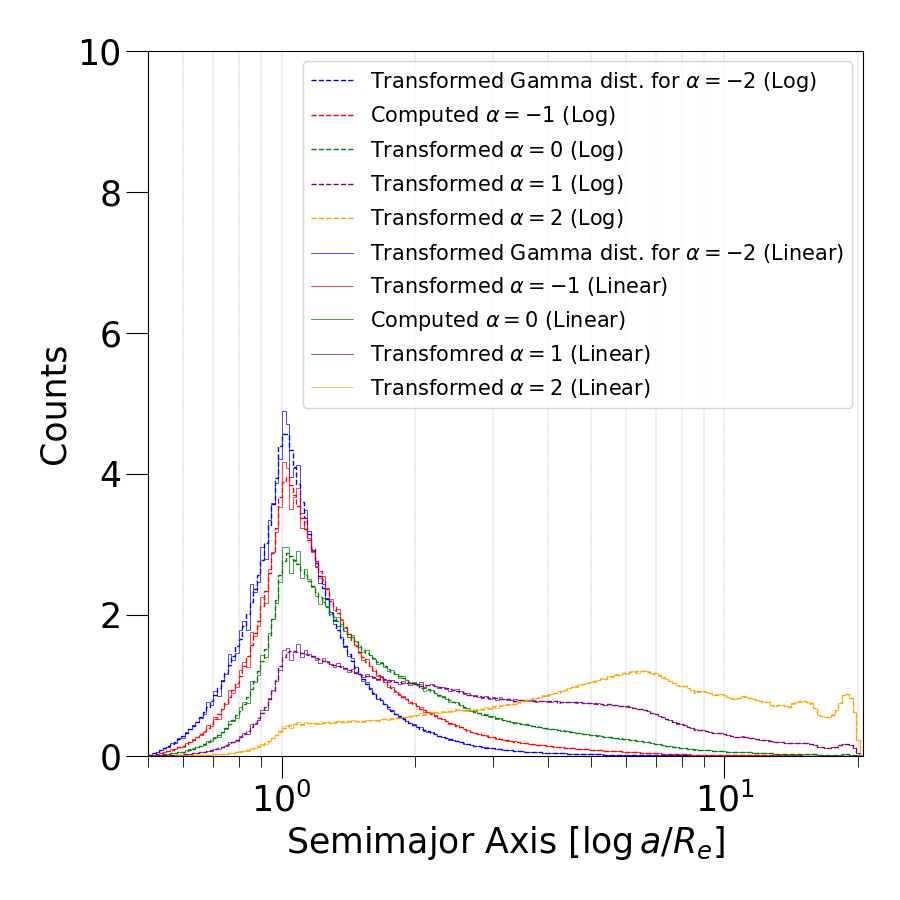
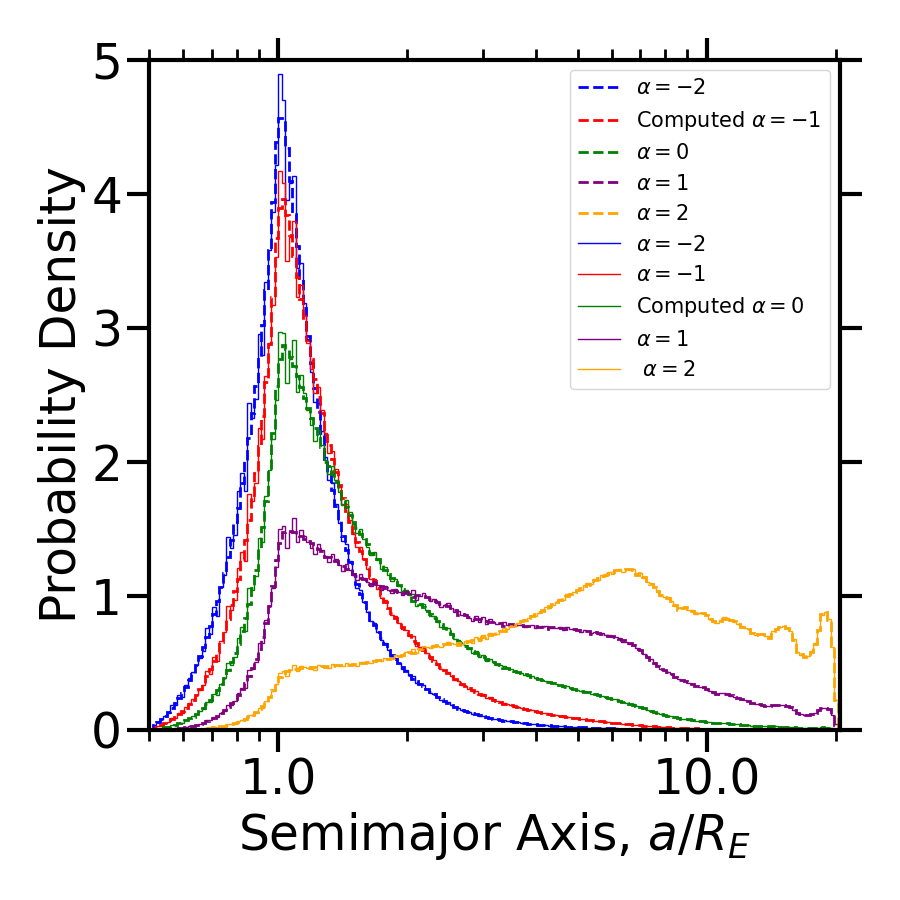
- Updated gamma test for appendix of paper
- Started working on predictive model for intersecting orbits, confused at where to start honestly

Changed region(s): [[0.0311, 0.0311, 0.9644, 0.9644], [0.7156, 0.6533, 0.7778, 0.6844], [0.6533, 0.6222, 0.7156, 0.6533]]

diff --git a/Sep_plot.py b/Sep_plot.py
@@ -1330,17 +1330,17 @@ class Sep_plot(Sep_gen):
                     gammanorm_test_plus_1 = np.abs(1 / (np.sum(gammahist_test_plus_1) * logbinsize))
                     gammanorm_test_plus_2 = np.abs(1 / (np.sum(gammahist_test_plus_2) * logbinsize))
                     
-                    StepPatch = ax.stairs(gammahist_test_minus_2 * gammanorm_test_minus_2, bins, linestyle = "--", ec = "blue", label = rf"Transformed Gamma for $\alpha = -2$ (Log)") 
-                    StepPatch = ax.stairs(gammahist_test_minus_1 * gammanorm_test_minus_1, bins, linestyle = "--", ec = "r", label = rf"Computed $\alpha = -1$ (Log)")
-                    StepPatch = ax.stairs(gammahist_test_0 * gammanorm_test_0, bins, linestyle = "--", ec = "g", label = rf"Transformed $\alpha = 0$ (Log)") 
-                    StepPatch = ax.stairs(gammahist_test_plus_1 * gammanorm_test_plus_1, bins, linestyle = "--", ec = "purple", label = rf"Transformed $\alpha = 1$ (Log)")
-                    StepPatch = ax.stairs(gammahist_test_plus_2 * gammanorm_test_plus_2, bins, linestyle = "--", ec = "orange", label = rf"Transformed $\alpha = 2$ (Log)")
+                    StepPatch = ax.stairs(gammahist_test_minus_2 * gammanorm_test_minus_2, bins, linestyle = "--", lw = 2, ec = "blue", label = rf"$\alpha = -2$") 
+                    StepPatch = ax.stairs(gammahist_test_minus_1 * gammanorm_test_minus_1, bins, linestyle = "--", lw = 2, ec = "r", label = rf"Computed $\alpha = -1$")
+                    StepPatch = ax.stairs(gammahist_test_0 * gammanorm_test_0, bins, linestyle = "--", lw = 2, ec = "g", label = rf"$\alpha = 0$") 
+                    StepPatch = ax.stairs(gammahist_test_plus_1 * gammanorm_test_plus_1, bins, linestyle = "--", lw = 2, ec = "purple", label = rf"$\alpha = 1$")
+                    StepPatch = ax.stairs(gammahist_test_plus_2 * gammanorm_test_plus_2, bins, linestyle = "--", lw = 2, ec = "orange", label = rf"$\alpha = 2$")
                 
-                StepPatch = ax.stairs(gammahist_1 * gammanorm_final_1, bins, ec = "blue", lw = 0.5, label = rf"Transformed Gamma for $\alpha = -2$ ({which})")
-                StepPatch = ax.stairs(gammahist_2 * gammanorm_final_2, bins, ec = "r", lw = 0.5, label = rf"Transformed $\alpha = -1$ ({which})")
-                StepPatch = ax.stairs(gammahist_3 * gammanorm_final_3, bins, ec = "g", lw = 0.5, label = rf"Computed $\alpha = 0$ ({which})")
-                StepPatch = ax.stairs(gammahist_4 * gammanorm_final_4, bins, ec = "purple", lw = 0.5, label = rf"Transfomred $\alpha = 1$ ({which})")
-                StepPatch = ax.stairs(gammahist_5 * gammanorm_final_5, bins, ec = "orange", lw = 0.5, label = rf"Transformed $\alpha = 2$ ({which})")           
+                StepPatch = ax.stairs(gammahist_1 * gammanorm_final_1, bins, ec = "blue", lw = 1, label = rf"$\alpha = -2$")
+                StepPatch = ax.stairs(gammahist_2 * gammanorm_final_2, bins, ec = "r", lw = 1, label = rf"$\alpha = -1$")
+                StepPatch = ax.stairs(gammahist_3 * gammanorm_final_3, bins, ec = "g", lw = 1, label = rf"Computed $\alpha = 0$")
+                StepPatch = ax.stairs(gammahist_4 * gammanorm_final_4, bins, ec = "purple", lw = 1, label = rf"$\alpha = 1$")
+                StepPatch = ax.stairs(gammahist_5 * gammanorm_final_5, bins, ec = "orange", lw = 1, label = rf" $\alpha = 2$")           
         else:
             if not circ:
                 if test:
@@ -1408,7 +1408,10 @@ class Sep_plot(Sep_gen):
 
         # ax.grid(True,color = "grey", linestyle="--", linewidth="0.5", axis = "x", which = "both")
         ax.set_xlim(0.5,20.5)
-        ax.set_ylim(0,10)
+        if test:
+            ax.set_ylim(0,5)
+        else:
+            ax.set_ylim(0,10)
         ax.set_xscale("log")
         ax.xaxis.set_major_formatter(matplotlib.ticker.ScalarFormatter())
         ax.set_xlabel(r"Semimajor Axis, $a/R_E$", fontsize = 35)    
@@ -1988,10 +1991,10 @@ if __name__ == "__main__":
     inum = wnum
     total_points = 5 # THIS DETERMINES THE TOTAL NUMBER OF POINTS IN RANDOM SAMPLING
     # FOR REAL LINEAR, alpha = 0, FOR REAL LOG, alpha = -1, FOR REAL POWER, alpha = 1
-    which = "Log"
-    alpha = 2 # For test = True, this becomes the comparison to which
+    which = "Linear"
+    alpha = -1 # For test = True, this becomes the comparison to which
     inclination = True # KEEP IN MIND THIS VALUE
-    random = True # Used to swap between discrete and random sampling for inc and omega marg
+    random = False # Used to swap between discrete and random sampling for inc and omega marg
     circ = False
     gamma_bool = False
     test = False
@@ -2013,7 +2016,7 @@ if __name__ == "__main__":
     # UnityPlotHistGen includes Inclination and Eccentricity Marginalization!
     # folder = tothist.UnityPlotHistGen(which = which, unity = unity, circ = circ, gamma_bool = gamma_bool, inclination = inclination, random = random)
     # load = tothist.UnityPlotHistLoad(which = which, alpha_step = alpha, dist = dist, circ = circ, test = test)
-    cdf = tothist.statistics(which = which, alpha_step = alpha, test = test)
+    # cdf = tothist.statistics(which = which, alpha_step = alpha, test = test)
     
     # Note: stepalpha function can also combine uniform and circular distributions!
     # alpha = tothist.stepalpha(which = which, alpha = alpha, circ = circ)

diff --git a/Sep_gen.py b/Sep_gen.py
@@ -897,7 +897,30 @@ class Sep_gen:
             
         return tothistlist
 
-        
+    def PredOrb(i, e):
+        """
+        """
+        pred = []
+        # Create semi-major and minor axis for sweeping
+        a_step = np.arange(0.5,20.5, 0.0001)   
+        b_step = a_step * np.cos(i)
+        # Create initial radius for check     
+        r_min = a_step*(1-e)
+        r_max = a_step*(1+e)
+        # r_minor = r*np.cos(i) # according to "Removing the tilt from a visual binary's orbit" website
+        r_check = 1
+
+        for step in range(len(r_min)):
+            # Conditions to add 
+            r = r_min[step]
+            if r-r_check <= 0.01:
+                pred.append(a_step[step])
+            
+            r = r_max[step]
+            if r-r_check <= 0.01:
+                pred.append(a_step[step])
+
+        return pred
 # param = [0, 1, np.pi/2, 0, 0, 0.1]
-# x = Sep_gen()
-# print(x.OrbGeoAlt())
+x = Sep_gen()
+print(len(Sep_gen.PredOrb(50, 0.7)))
